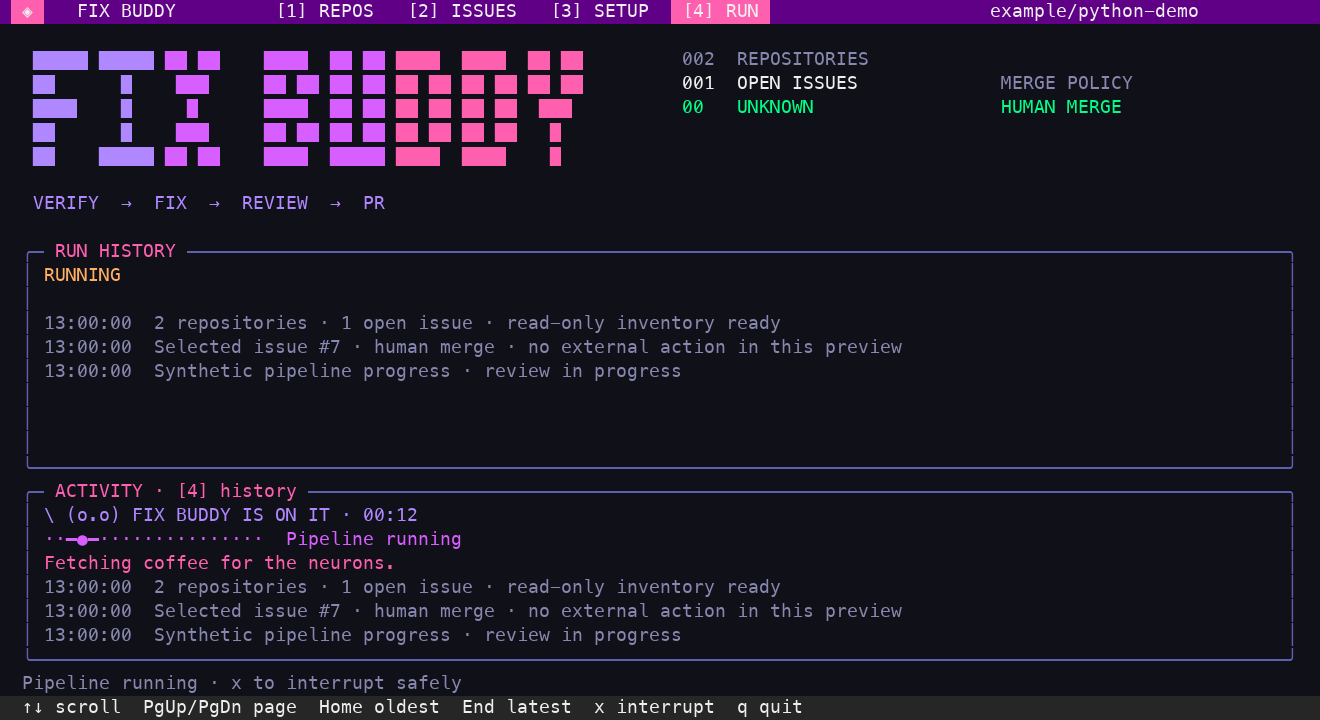
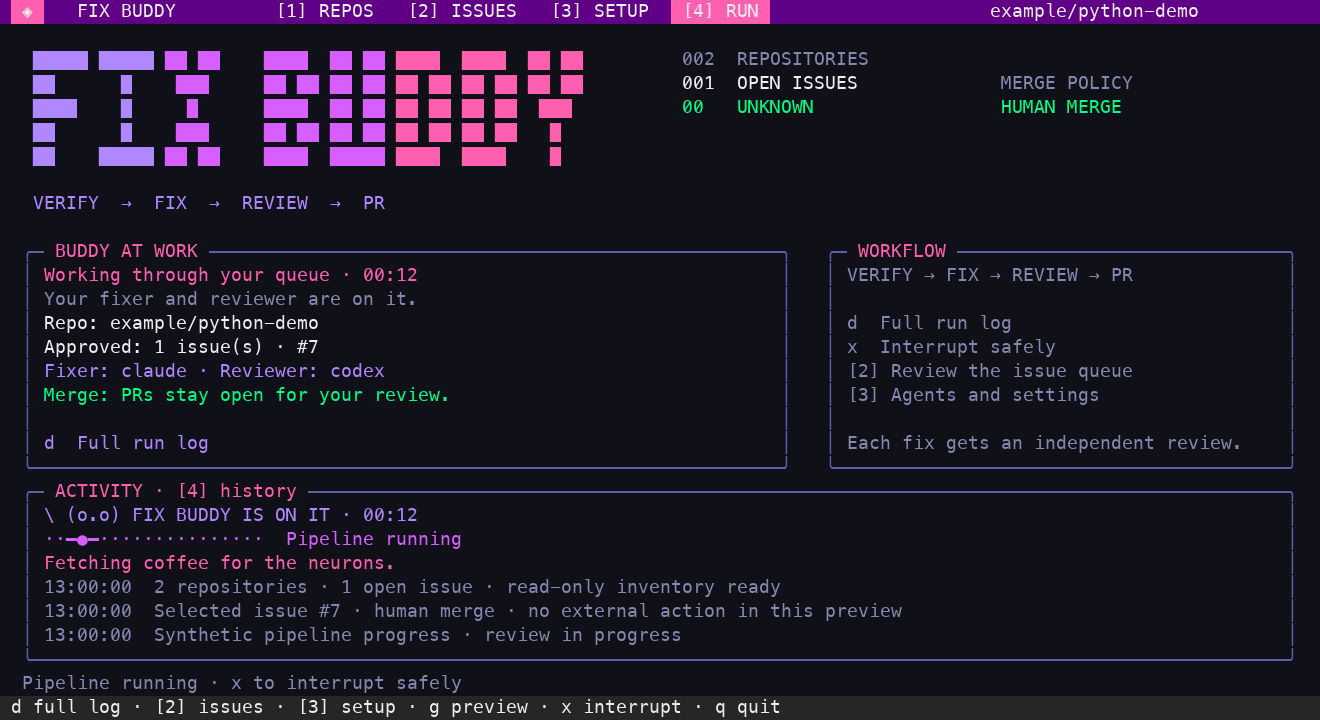
feat: match ScoutBuddy classic run panels in FixBuddy
Show the approved run selection and agents beside workflow shortcuts, keeping the original animated face and d for complete history. Presentation only; the core pipeline differs only in version. Verified 37 Python UI/PTY tests, two focused installer/help cases, ShellCheck, shell syntax, deterministic bundle, SHA256 and 40/76/120 renders. No live agent calls or GitHub writes.

diff --git a/src/tui.py b/src/tui.py
@@ -402,6 +402,9 @@ class TerminalApp:
         self.clock = clock or time.monotonic
         self.wall_clock = wall_clock or time.time
         self.run_started = None
+        self.run_finished = None
+        self.run_info = None
+        self.run_details = False
         self.catalog_started = None
         self.outcome_effect = None
         self.phrase_offset = random.randrange(len(BUDDY_PHRASES))
@@ -670,6 +673,7 @@ class TerminalApp:
                 self.append_activity(value)
             elif kind == "exit" and type(value) is int and self.process is not None:
                 self.run_exit = value
+                self.run_finished = self.clock()
                 self.outcome_effect = {'exit': value, 'started': self.clock()}
                 result = 'Run finished' if value == 0 else 'Run stopped'
                 self.notice = f"{result} · exit {self.run_exit} · review the summary in RUN"
@@ -695,9 +699,16 @@ class TerminalApp:
             self.notice = f"Could not start: {activity_message(str(error))}"
             self.append_activity(self.notice)
             return
+        self.run_info = {'repo': self.settings.repo,
+                         'numbers': numbers[:self.settings.max_issues],
+                         'fix_agent': self.settings.fix_agent,
+                         'review_agent': self.settings.review_agent,
+                         'auto_merge': self.settings.auto_merge}
         self.invalidate_preview()  # a completed run changes labels/PR state
         self.run_exit = None
         self.run_started = self.clock()
+        self.run_finished = None
+        self.run_details = False
         self.outcome_effect = None
         self.log_scroll = 0
         self.tab = 3
@@ -726,7 +737,8 @@ class TerminalApp:
             self.put(screen, 0, x, f" [{index + 1}] {label} ", "badge" if index == self.tab else "header", index == self.tab)
             x += len(label) + 7
         if width >= 105:
-            repo = clean_display(self.settings.repo or "set repository")
+            repo = clean_display((self.run_info['repo'] if self.tab == 3 and self.run_info else
+                                  self.settings.repo) or "set repository")
             self.put(screen, 0, max(x + 2, width - 30), clip_cells(repo, min(27, width - x - 3)), "header")
 
     def draw_hero(self, screen: curses.window, width: int, height: int) -> int:
@@ -762,10 +774,11 @@ class TerminalApp:
         self.put(screen, 4, x, f"{unknown}   UNKNOWN", "amber" if error_count or self.catalog_error else "green", True)
         self.put(screen, 8, 3, "VERIFY  →  FIX  →  REVIEW  →  PR", "violet", True)
         if width >= 110:
+            auto_merge = self.run_info['auto_merge'] if self.tab == 3 and self.run_info else self.settings.auto_merge
             self.put(screen, 3, width - 29, "MERGE POLICY", "muted", True)
             self.put(screen, 4, width - 29,
-                     "AUTO-MERGE ON" if self.settings.auto_merge else "HUMAN MERGE",
-                     "amber" if self.settings.auto_merge else "green", True)
+                     "AUTO-MERGE ON" if auto_merge else "HUMAN MERGE",
+                     "amber" if auto_merge else "green", True)
         return 10
 
     def draw_repos(self, screen: curses.window, width: int, height: int, top: int) -> None:
@@ -883,6 +896,9 @@ class TerminalApp:
                      "Enter: select / edit   ← →: cycle   r: refresh GitHub", "muted")
 
     def draw_run(self, screen: curses.window, width: int, height: int, top: int) -> None:
+        if not self.run_details:
+            self.draw_run_summary(screen, width, height, top)
+            return
         panel_height = max(3, height - top - 2)
         self.frame(screen, top, 2, panel_height, max(4, width - 4), "RUN HISTORY")
         state = "RUNNING" if self.process is not None and self.run_exit is None else (
@@ -899,6 +915,48 @@ class TerminalApp:
             self.put(screen, top + inset + index, 4, line, "muted", width=width - 8)
         if not self.logs:
             self.put(screen, top + inset, 4, "Select one repo and press g.", "muted", width=width - 8)
+
+    def draw_run_summary(self, screen, width, height, top):
+        left, right = panel_widths(width)
+        panel_height = max(3, height - top - 2)
+        rows = max(0, panel_height - 2)
+        running = self.process is not None and self.run_exit is None
+        title = 'BUDDY AT WORK' if running else 'LAST RUN' if self.run_exit is not None else 'YOUR FIX BUDDY'
+        self.frame(screen, top, 2, panel_height, left, title)
+        end = self.run_finished if self.run_finished is not None else self.clock()
+        elapsed = max(0, int(end - self.run_started)) if self.run_started is not None else 0
+        stamp = f'{elapsed // 60:02d}:{elapsed % 60:02d}'
+        if running:
+            lines = [(f'Working through your queue · {stamp}', 'pink'),
+                     ('Your fixer and reviewer are on it.', 'muted')]
+        elif self.run_exit is not None:
+            lines = [(f'Run finished · {stamp}' if self.run_exit == 0 else f'Run stopped · exit {self.run_exit}', 'violet' if self.run_exit == 0 else 'amber'),
+                     ('Review the log for issue and PR outcomes.', 'muted')]
+        else:
+            lines = [('Ready when you are, buddy.', 'pink'),
+                     ('Choose issues, then g to preview your run.', 'muted')]
+        if self.run_info:
+            info = self.run_info
+            numbers = ', '.join(f'#{number}' for number in info['numbers'][:8])
+            if len(info['numbers']) > 8:
+                numbers += f" (+{len(info['numbers']) - 8} more)"
+            lines += [('Repo: ' + info['repo'], 'text'),
+                      (f"Approved: {len(info['numbers'])} issue(s) · {numbers}", 'text'),
+                      ('Fixer: ' + info['fix_agent'] + ' · Reviewer: ' + info['review_agent'], 'violet'),
+                      ('Merge: AUTO-MERGE REQUESTED' if info['auto_merge'] else 'Merge: PRs stay open for your review.',
+                       'amber' if info['auto_merge'] else 'green')]
+        lines += [('', 'text'), ('d  Full run log', 'violet')]
+        for row, (line, style) in enumerate(lines[:rows]):
+            self.put(screen, top + 1 + row, 4, line, style, width=left - 4)
+        if right:
+            x = left + 5
+            self.frame(screen, top, x, panel_height, right, 'WORKFLOW')
+            guide = ['VERIFY → FIX → REVIEW → PR', '', 'd  Full run log',
+                     'x  Interrupt safely' if running else 'g  Preview a new run',
+                     '[2] Review the issue queue', '[3] Agents and settings', '',
+                     'Each fix gets an independent review.']
+            for row, line in enumerate(guide[:rows]):
+                self.put(screen, top + 1 + row, x + 2, line, 'muted', width=right - 4)
 
     def draw_activity(self, screen, width, top, height):
         self.frame(screen, top, 2, height, width - 4, "ACTIVITY · [4] history")
@@ -943,7 +1001,7 @@ class TerminalApp:
                 phrase = BUDDY_PHRASES[(self.phrase_offset + int(elapsed / 6)) % len(BUDDY_PHRASES)]
                 self.put(screen, row, 4, phrase, 'pink', width=width - 8)
                 row, remaining = row + 1, remaining - 1
-        lines = ([self.logs[-1]] if remaining == 1 else self.history_lines(width - 8)) if self.logs else [
+        lines = ([self.logs[-1]] if remaining == 1 else wrap_activity(self.logs[-max(1, remaining):], width - 8)) if self.logs else [
             'Your Buddy is ready. Events appear here.']
         for offset, line in enumerate(lines[-remaining:] if remaining > 0 else []):
             self.put(screen, row + offset, 4, line, 'muted', width=width - 8)
@@ -956,10 +1014,12 @@ class TerminalApp:
         if self.tab == 2:
             hints = "  Tab tabs   ↑↓ field   Enter edit   ←→ choice   g run   ? help   q quit"
         if self.tab == 3:
-            hints = "  ↑↓ scroll  PgUp/PgDn page  Home oldest  End latest  x interrupt  q quit"
+            hints = (" d Buddy view · ↑↓ scroll · PgUp/Dn · Home/End · x interrupt · q quit" if self.run_details else
+                     " d full log · [2] issues · [3] setup · g preview · x interrupt · q quit")
         if width < 76:
             hints = (" ↑↓ Enter repo · [1–4] tabs · g run · q", " Space select · Enter detail · g · q",
-                     " ↑↓ Enter edit · ←→ · [1–4] · g · q", " ↑↓ PgUp/Dn Home/End · x stop · q")[self.tab]
+                     " ↑↓ Enter edit · ←→ · [1–4] · g · q",
+                     " d Buddy · ↑↓ Home/End · x stop · q" if self.run_details else " d log · [1–4] tabs · g run · x stop")[self.tab]
         self.put(screen, height - 1, 0, clip_cells(hints, width), "footer")
         if height >= 3:
             self.put(screen, height - 2, 2, clip_cells(activity_message(self.notice), width - 4),
@@ -1139,6 +1199,9 @@ class TerminalApp:
             elif key in (10, 13, curses.KEY_ENTER, ord("e")):
                 self.edit_field(screen)
         elif self.tab == 3:
+            if key in (ord('d'), ord('D')):
+                self.run_details = not self.run_details
+                return True
             height, width = screen.getmaxyx()
             maximum = max(0, len(self.history_lines(width - 8)) - 1)
             page = max(1, height // 3)

diff --git a/tests/test_buddy_ui.py b/tests/test_buddy_ui.py
@@ -102,8 +102,62 @@ class BuddyUITests(unittest.TestCase):
         self.app.drain_events()
         self.assertFalse(getattr(self.app, 'outcome_effect', None))
 
+    def test_run_uses_classic_two_panels_and_details_toggle(self):
+        self.app.tab = 3
+        self.app.process = Mock()
+        self.app.run_started = 100.0
+        self.app.run_info = {'repo': 'example/demo', 'numbers': [7, 8],
+                             'fix_agent': 'claude', 'review_agent': 'codex', 'auto_merge': False}
+        self.now += 12
+        self.app.append_activity('Synthetic precise diagnostic')
+        screen = Screen(30, 120)
+        self.app.draw(screen)
+        text = screen.content()
+        for label in ('FIX BUDDY', 'BUDDY AT WORK', 'WORKFLOW', 'ACTIVITY', '(o.o)', '00:12', '#7', '#8'):
+            self.assertIn(label, text)
+        self.assertNotIn('RUN HISTORY', text)
+        self.app.handle_key(screen, ord('d'))
+        self.app.draw(screen)
+        self.assertIn('RUN HISTORY', screen.content())
+        self.assertIn('Synthetic precise diagnostic', screen.content())
+        self.app.handle_key(screen, ord('d'))
+        self.app.draw(screen)
+        self.assertIn('BUDDY AT WORK', screen.content())
+
+    def test_run_card_keeps_approved_selection_when_setup_changes(self):
+        self.app.settings.project = '/synthetic/project'
+        self.app.settings.max_issues = 1
+        self.app.actionable_order = [7, 8]
+        self.app.actionable_numbers = {7, 8}
+        self.app.preview_key = (tui.settings_key(self.app.settings), self.app.catalog_generation)
+        with patch.object(tui.subprocess, 'Popen'), patch.object(tui.threading.Thread, 'start'):
+            self.app.start_run()
+        self.app.settings.repo = 'different/repo'
+        self.app.settings.fix_agent = 'agy'
+        self.app.settings.auto_merge = True
+        self.app.selected = {99}
+        screen = Screen(30, 120)
+        self.app.draw(screen)
+        text = screen.content()
+        self.assertEqual(self.app.run_info['repo'], 'example/demo')
+        self.assertEqual(self.app.run_info['numbers'], [7])
+        self.assertIn('#7', text)
+        self.assertNotIn('#99', text)
+        self.assertNotIn('agy', text)
+        self.assertNotIn('different/repo', text)
+        self.assertNotIn('AUTO-MERGE ON', text)
+        self.now += 12
+        self.app.events.put(('exit', 0))
+        self.app.drain_events()
+        self.now += 6
+        self.app.draw(screen)
+        self.assertIn('Review the log', screen.content())
+        self.assertIn('Run finished · 00:12', screen.content())
+        self.assertNotIn('FIX APPLIED', screen.content())
+
     def test_history_wraps_long_lines_and_can_return_to_latest(self):
         self.app.tab = 3
+        self.app.run_details = True
         self.app.events.put(('line', 'Synthetic long event: ' + 'word ' * 30 + 'END-MARKER'))
         self.app.drain_events()
         screen = Screen(30, 76)
@@ -155,6 +209,7 @@ class BuddyUITests(unittest.TestCase):
 
     def test_history_retains_unbroken_words_and_pages_without_changing_tabs(self):
         self.app.tab = 3
+        self.app.run_details = True
         message = 'a' * 120 + 'TAILMARKER'
         self.app.events.put(('line', message))
         self.app.drain_events()

diff --git a/scripts/render_tui.py b/scripts/render_tui.py
@@ -49,6 +49,7 @@ def main():
     parser = argparse.ArgumentParser()
     parser.add_argument('--view', choices=('repos', 'issues', 'setup', 'run'), default='run')
     parser.add_argument('--busy', action='store_true')
+    parser.add_argument('--details', action='store_true')
     parser.add_argument('--outcome', choices=('finished', 'stopped'))
     parser.add_argument('--output', type=Path, default=ROOT / 'docs' / 'screenshots')
     args = parser.parse_args()
@@ -61,6 +62,7 @@ def main():
         tui.RepoRecord('example/typescript-demo', False, False, True, status='ok')]
     app.rebuild_issue_list()
     app.tab = ('repos', 'issues', 'setup', 'run').index(args.view)
+    app.run_details = args.details
     app.phrase_offset = 0
     app.notice = 'Synthetic preview · inventory ready · g checks and confirms a run'
     app.append_activity('2 repositories · 1 open issue · read-only inventory ready')
@@ -68,6 +70,9 @@ def main():
     if args.busy:
         app.process = object()
         app.run_started = 100
+        app.run_info = {'repo': app.settings.repo, 'numbers': [7],
+                        'fix_agent': app.settings.fix_agent, 'review_agent': app.settings.review_agent,
+                        'auto_merge': app.settings.auto_merge}
         app.notice = 'Pipeline running · x to interrupt safely'
         app.append_activity('Synthetic pipeline progress · review in progress')
     if args.outcome:
@@ -107,7 +112,7 @@ def main():
                 draw.text((left, top), char, font=emoji_font if char == '😱' else font,
                           fill=xterm(foreground), embedded_color=char == '😱' and emoji_path.is_file())
                 offset += cells
-        state = args.outcome or ('busy' if args.busy else args.view)
+        state = ('details-' if args.details else '') + (args.outcome or ('busy' if args.busy else args.view))
         destination = args.output / f'tui-{state}-{width}.png'
         result.save(destination)
         print(destination)

diff --git a/NEXT_SESSION.md b/NEXT_SESSION.md
@@ -1,6 +1,23 @@
 # Next session
 
-## Local v0.9.3 release candidate — 2026-09-30
+## Local classic Buddy RUN — 2026-09-30
+
+Current development version: 0.9.4-dev on `feat/classic-buddy-run`, based on
+the published v0.9.3 merge `aa66a57`. RUN now matches ScoutBuddy's approved
+classic layout: full wordmark, Buddy summary and workflow panels, original
+animated face in the activity strip, and `d` to toggle the complete log.
+Summary metadata is captured from the approved run, not mutable setup fields;
+process completion never claims that a fix or merge succeeded.
+
+The Bash pipeline differs only in its version. Run/merge confirmation and
+interruption behavior stay unchanged. The public installer remains pinned to
+v0.9.3. This local UI update has not been pushed or released. The user-owned
+`review-todo.md` in the main checkout is unchanged.
+
+The release-candidate section below is historical: PR #19 was already merged
+and v0.9.3 published before this new local adaptation.
+
+## Historical v0.9.3 release candidate — 2026-09-30
 
 Buddy-family terminal changes are in product commit `3a637e4`, based on the
 published v0.9.2 state. Release preparation sets the core, wizard and pinned

diff --git a/README.md b/README.md
@@ -80,7 +80,11 @@ repository. No checkout is required just to browse the read-only inventory.
 The keyboard tabs are **[1] REPOS · [2] ISSUES · [3] SETUP · [4] RUN**.
 A bottom **ACTIVITY** panel keeps recent timestamped events visible in every
 view. While the inventory or pipeline is running, Buddy animates with the real
-elapsed time. The **RUN** view wraps the last 1,500 session events; use
+elapsed time. **RUN** uses the same classic two-panel layout as ScoutBuddy:
+the approved repository, issues, agents and merge choice on the left, workflow
+shortcuts on the right, and the familiar `(o.o)` face in the activity strip.
+Press **d** for the full log, or **d** again for the Buddy view.
+The log wraps the last 1,500 session events; use
 **↑/↓**, **PgUp/PgDn**, **Home** and **End** to browse or follow the latest event.
 Recognizable credentials are withheld from this bounded display history.
 It stays in memory; the Bash pipeline's existing run logs remain under

diff --git a/docs/buddy-ui-review.md b/docs/buddy-ui-review.md
@@ -1,6 +1,18 @@
 # Buddy-family terminal preview
 
-Release candidate: 0.9.3. The installer is pinned to v0.9.3.
+Local UI: 0.9.4-dev. The public installer remains pinned to released v0.9.3.
+
+## Classic RUN refinement — 2026-09-30
+
+Matches the user's accepted ScoutBuddy layout: full wordmark, two panels and
+the original animated face below. RUN presents a summary of its approved
+repository/issues/agents/merge policy; `d` shows the full timestamped log.
+Later SETUP edits do not rewrite that displayed approval, and elapsed time
+stops on the observed process exit. Success remains neutral process completion.
+
+Verification: 37 offline Python UI tests including PTY, standalone bundle,
+ShellCheck/syntax/checksum checks and synthetic 40x12/76/120-column renders.
+No live fixing/model calls or GitHub writes; the Bash pipeline only changes version.
 
 ## Historical preview — product commit `3a637e4`
 

diff --git a/CHANGELOG.md b/CHANGELOG.md
@@ -6,6 +6,12 @@ All notable changes to fixbuddy are documented here. The format is based on
 
 ## [Unreleased]
 
+### Changed
+- RUN uses ScoutBuddy's classic Buddy summary and workflow panels, with the
+  original animated face in the activity strip and `d` for the complete log.
+- Run details retain the approved repository, issue selection, agents and merge
+  mode even if settings are edited afterwards. Elapsed time stops at process exit.
+
 ## [0.9.3] - 2026-09-30
 
 ### Added
